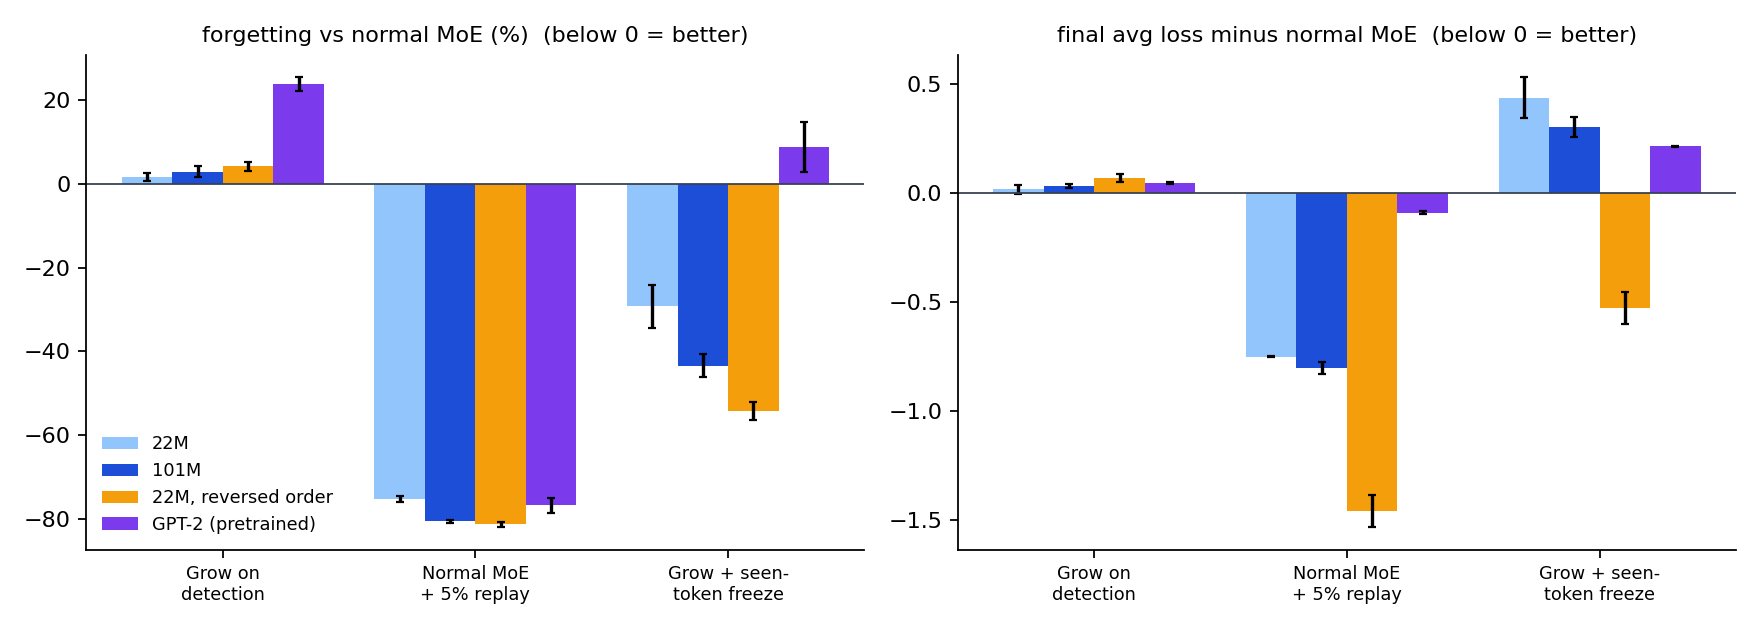
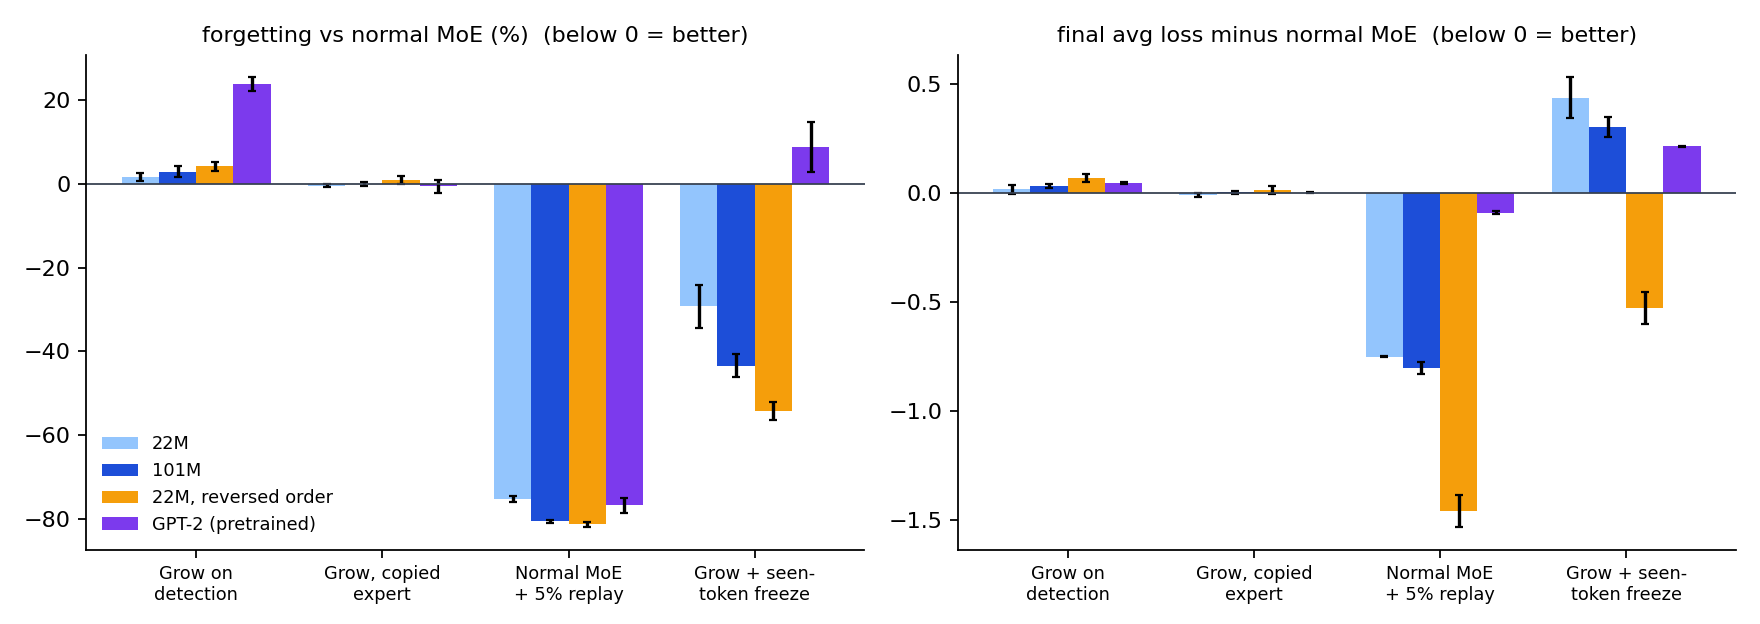
docs: copy-init, drop-threshold and GPT-2 router-leak findings 21-24; fig 11 copy arm

diff --git a/experiments/analyze.py b/experiments/analyze.py
@@ -350,7 +350,8 @@ SCALE_SIZES = [("toy", "22M params", "#93c5fd"), ("big", "101M params", "#1d4ed8
 ROBUST_SETTINGS = [("toy", "22M", "#93c5fd"), ("big", "101M", "#1d4ed8"),
                    ("ord", "22M, reversed order", "#f59e0b"),
                    ("gpt2", "GPT-2 (pretrained)", "#7c3aed")]
-ROBUST_ARMS = [("D", "Grow on\ndetection"), ("A_r05", "Normal MoE\n+ 5% replay"),
+ROBUST_ARMS = [("D", "Grow on\ndetection"), ("D_copy", "Grow, copied\nexpert"),
+               ("A_r05", "Normal MoE\n+ 5% replay"),
                ("D_seen", "Grow + seen-\ntoken freeze")]
 
 
@@ -672,7 +673,7 @@ PAPER_FIGURES = [
     ("9_gradual_drift.png", "drift", ["shift_q50", "drift_q50", "drift_q100"]),
     ("10_drift_detector.png", "drift", ["drift_q100", "dd_drift_q100", "dd_drift_q50"]),
     ("11_robustness.png", "robustness",
-     [f"{p}_{a}" for p, _, _ in ROBUST_SETTINGS for a in ("A", "D", "A_r05", "D_seen")]),
+     [f"{p}_{a}" for p, _, _ in ROBUST_SETTINGS for a in ("A", "D", "D_copy", "A_r05", "D_seen")]),
 ]
 
 

diff --git a/README.md b/README.md
@@ -5,7 +5,7 @@
 This repository contains two things:
 
 1. **The engine** — a Mixture-of-Experts layer whose expert count can grow *while the network is training*, plus a foundry that turns PyTorch source code (including code written by a local LLM) into validated, live experts. Originally built for the AMD Developer Hackathon ACT II.
-2. **A study of whether that is useful** — about 260 training runs of continual pretraining on an AMD Radeon Pro W7900D, comparing growth against plain training, freezing strategies, and data replay, with 3–6 seeds per setting.
+2. **A study of whether that is useful** — about 290 training runs of continual pretraining on an AMD Radeon Pro W7900D, comparing growth against plain training, freezing strategies, and data replay, with 3–6 seeds per setting.
 
 The short answer: **detecting the shift works; growing experts in response does not reduce forgetting, at any replay budget, model size, domain order or learning-rate schedule we tested, nor when starting from pretrained GPT-2 — while replaying even 1% of old data does.** The study also measures *why* growth fails and answers whether LLM-written experts beat randomly initialised ones (they don't).
 
@@ -19,10 +19,10 @@ The setup: a small MoE language model is trained on three text domains in sequen
 
 | Finding | Evidence |
 |---|---|
-| **The model detects domain changes by itself.** A rolling z-score on its own training loss caught **162 of 162** boundaries across 81 runs (including pretrained GPT-2), always 2 steps after the change, with **zero false alarms**. On its own it cannot see a change that makes the loss *drop*: with the domain order reversed, the switch from math to code (which a math-trained model already finds easier) was missed in all 6 runs. The same test run on the falling side catches it in 2 of 3 runs, with zero false alarms (it never fired in no-shift or normal-order runs, which stay bit-identical). | [fig 3](results/figures/3_detection.png) |
+| **The model detects domain changes by itself.** A rolling z-score on its own training loss caught **162 of 162** boundaries across 81 runs (including pretrained GPT-2), always 2 steps after the change, with **zero false alarms**. On its own it cannot see a change that makes the loss *drop*: with the domain order reversed, the switch from math to code (which a math-trained model already finds easier) was missed in all 6 runs. The same test run on the falling side catches it in 5 of 6 runs, with zero false alarms (it never fired in no-shift or normal-order runs, which stay bit-identical); replayed offline, a slightly lower threshold for drops catches all of them. | [fig 3](results/figures/3_detection.png) |
 | **It catches abrupt shifts down to about 10% of the data — but not gradual drift.** Switching 10%+ of the data to a new domain is always detected (within 2–10 steps); 5% is caught 1 time in 3; no change, never. Drifting *slowly* to 100% code is never detected by the spike detector, even though it raises the loss as much as a 25% switch that always is. | [fig 8](results/figures/8_detection_sensitivity.png), [fig 9](results/figures/9_gradual_drift.png) |
 | **A second, long-horizon detector fixes most of the drift gap at no cost.** Comparing the smoothed loss against its lowest point since the last growth catches drift to 100% code in 3/3 runs, drift to 50% in 3/3 with a 5% margin, and even drift to 25% in 2/3 with a 2% margin — with zero false alarms at every margin tested — and abrupt and normal runs are bit-identical with or without it. | [fig 10](results/figures/10_drift_detector.png) |
-| **Growing experts on detection does not reduce forgetting.** Normal MoE: 1.51 forgetting. Growing at every detected change: 1.53. Growing at the *true* boundaries (oracle): 1.54. Starting each new expert as a copy of an existing one instead of random weights removes growth's extra forgetting (1.50 at 22M; on GPT-2 0.182 vs 0.227) — but that only brings it level with not growing at all. | [fig 1](results/figures/1_tradeoff.png) |
+| **Growing experts on detection does not reduce forgetting.** Normal MoE: 1.51 forgetting. Growing at every detected change: 1.53. Growing at the *true* boundaries (oracle): 1.54. Starting each new expert as a copy of an existing one instead of random weights removes growth's extra forgetting at 22M, 101M, in reversed order, with replay and on GPT-2 — but that only brings it level with not growing at all. On GPT-2 with freezing, the same copied expert backfires: the router sends 67% of old text to it and forgetting nearly doubles. | [fig 1](results/figures/1_tradeoff.png) |
 | **Why: two shared paths leak.** With every old weight frozen, the router still sends old-domain tokens to the new experts (32% → 68% as more experts are added; correlation with forgetting r = 0.80), and the token embeddings — shared by every domain, and tied to the output layer — drift. | [fig 4](results/figures/4_router_leak.png) |
 | **Best method that stores no old data: freeze the embeddings of already-seen tokens.** −30% forgetting at 22M params, −44% at 101M — but always at a cost in learning the new domains. | [fig 6](results/figures/6_scale.png) |
 | **Replay wins at every budget.** Mixing 1% old data into each batch halves forgetting; 5% removes 75–81%. Adding expert growth on top changes nothing, and adding freezing makes the final loss worse at every budget. | [fig 5](results/figures/5_replay_budget.png) |
@@ -32,7 +32,7 @@ The setup: a small MoE language model is trained on three text domains in sequen
 
 ![Forgetting and final loss vs replay budget](results/figures/5_replay_budget.png)
 
-Every number, table, and caveat is in **[`results/NOTES.md`](results/NOTES.md)** (23 findings), with all eleven figures in [`results/figures/`](results/figures/).
+Every number, table, and caveat is in **[`results/NOTES.md`](results/NOTES.md)** (24 findings), with all eleven figures in [`results/figures/`](results/figures/).
 
 ## Setup
 
@@ -92,7 +92,9 @@ bash experiments/run_queue.sh experiments/queues/replay_budget.txt
 | `two_sided_detection.txt` | 21 (detecting shifts that lower the loss) |
 | `grown_expert_init.txt` | 22 (how new experts are initialised) |
 | `gpt2_embeddings.txt` | 23 (which embeddings to freeze on GPT-2) |
-| `gpt2_copy_init.txt` | copied experts + freezing on GPT-2 (in progress) |
+| `drop_detection_steps.txt` | 21 (more seeds; per-step logging of the missed drop) |
+| `copy_init_generality.txt` | 22 (copied experts at 101M, reversed order, with replay and seen-token freezing) |
+| `gpt2_copy_init.txt` | 24 (copied experts + freezing on GPT-2) |
 
 **4. Tables and figures:**
 
@@ -161,10 +163,10 @@ docker run --rm --device=/dev/kfd --device=/dev/dri --group-add video --group-ad
 
 - **Small models, short training.** 22M and 101M parameters trained from scratch on 30M tokens, plus GPT-2 small (124M, pretrained) on 9M tokens. The conclusions held across all of these, but nothing at billions of parameters or tokens, where the trade-offs could differ. Seen-token freezing in particular changed with the setting: relatively better at 101M, useless on pretrained GPT-2.
 - **Detection has limits.** Abrupt changes are caught down to about a 10% shift. The spike detector alone misses gradual drift entirely; the added drift detector catches drift down to 25% code at a 2% margin, but not reliably (2/3), and margins below 2% (where false alarms would presumably start) were not tested.
-- **One kind of detector.** A loss z-score with a fixed threshold (z > 4 for 3 steps). Run on the rising side alone it misses a shift to easier data (finding 18); the added falling-side copy caught that shift in only 2 of 3 runs, because a step down is smaller than a step up (finding 21). Other signals (routing entropy, expert load) were logged but not compared.
+- **One kind of detector.** A loss z-score with a fixed threshold (z > 4 for 3 steps). Run on the rising side alone it misses a shift to easier data (finding 18); the added falling-side copy caught that shift in 5 of 6 runs, because a step down is smaller than a step up; a lower drop threshold (z > 3) catches all of them in an offline replay, but was not tested in a training run (finding 21). Other signals (routing entropy, expert load) were logged but not compared.
 - **Three domains, one order each way.** Forward and reversed order were tested; other orders and longer domain sequences were not.
 - **Gemma's designs had little variety** (nearly all LayerNorm → 256→128 → 128→256), so "LLM-written vs random" was tested on a narrow range of designs.
-- **Grown experts start from a different initialisation** than the model's initial experts (PyTorch's default vs GPT-style std 0.02) in every run before finding 22. That init is what made growth slightly *worse* than not growing; copying an existing expert removes the penalty but gives no gain (finding 22). Copy init was tested with plain growth only, not with freezing or replay.
+- **Grown experts start from a different initialisation** than the model's initial experts (PyTorch's default vs GPT-style std 0.02) in every run before finding 22. That init is what made growth slightly *worse* than not growing; copying an existing expert removes the penalty but gives no gain (finding 22). Copy init is harmless without freezing but harmful with freezing on GPT-2 (finding 24).
 
 **Of the engine**
 

diff --git a/results/NOTES.md b/results/NOTES.md
@@ -57,7 +57,7 @@ Two details that apply to every growth run:
    exactly 2 steps late, with zero false triggers (fig 3). The 6 pretrained
    GPT-2 growth runs add 12/12 more (finding 20). The one exception is a shift
    that *lowers* the loss, which a spike detector cannot see (finding 18). A
-   second detector on the falling side catches it in 2 of 3 seeds, with no
+   second detector on the falling side catches it in 5 of 6 seeds, with no
    false alarms (finding 21). Without the rule, 1 of 3
    seeds fired on a noisy batch (z = 4.04) 8 steps early and its 300-step
    cooldown masked the real boundary.
@@ -329,18 +329,36 @@ Two details that apply to every growth run:
         trainable are pretrained and tied to the output layer. Finding 23
         tests this and rules it out.
 21. **A drop detector catches shifts that lower the loss, with no false
-    alarms** (`two_sided_detection.txt`).
+    alarms** (`two_sided_detection.txt`, `drop_detection_steps.txt`).
     - Method: a second copy of the same z-test runs on the *negated* loss
       (`detect_drops=true`). It is silent for the first 300 steps
       (`drop_warmup`), while the loss is still falling fast.
-    - Reversed order: math → code was caught in 2 of 3 seeds, at 3 and 4 steps
-      late (z = −8.5 and −5.7). Code → stories was caught in 3/3 as before. In
-      total that is 5/6 boundaries, up from 3/6.
-    - The third seed missed the drop even though its loss fell by as much as
-      in the other two. The step down is smaller than an upward switch: ~0.8
-      nats here, against ~4 for code → stories. It needs 3 steps in a row past
-      z = 4, so it is borderline. Only 20-step loss averages are logged, so the
-      exact per-step z for that seed cannot be recovered.
+    - Reversed order, 6 seeds: math → code was caught in 5, 2–5 steps late
+      (z between −5.1 and −8.5). Code → stories was caught in 6/6 as before.
+      In total that is 11/12 boundaries, up from 6/12.
+    - The step down is smaller than an upward switch: ~0.8 nats here, against
+      ~4 for code → stories, so the drop side runs closer to the threshold.
+    - Why seed 1 missed: it was re-run with per-step loss logging (bit-identical
+      to the original run). Its loss fell more gradually over the first code
+      steps, and its math loss just before was noisier. The z-scores of the
+      first code steps were 3.4, 3.2, 4.8, 3.8, 3.7, 4.0: never 3 in a row
+      above 4.
+    - Lower thresholds, replayed offline on the per-step losses. The replay at
+      z > 4 reproduces the real firings exactly. Drop side only, 3 steps in a
+      row; 4 reversed-order seeds, plus 5 controls with no loss-lowering shift
+      (3 no-shift, 2 normal-order):
+
+      | Drop threshold | math → code caught | False alarms in controls |
+      |---|---|---|
+      | z > 4 (used) | 3/4 | 0/5 |
+      | z > 3.5 | 4/4 | 0/5 |
+      | z > 3 | 4/4, all exactly 2 steps late | 0/5 |
+      | z > 2.5 | 4/4 | 3/5 (at step 381, just after the warm-up) |
+
+      A drop threshold of 3 would have caught every seed with no false alarm.
+      This is offline and on few runs, and a real run with that setting was
+      not trained. Requiring only 2 steps in a row at z > 3 already gave false
+      alarms in 2 of the 5 controls.
     - No false alarms. The normal-order runs (3 seeds) and the no-shift runs
       (stories → stories, 3 seeds) are **bit-identical** to the same runs
       without the drop detector: it never fired.
@@ -373,6 +391,19 @@ Two details that apply to every growth run:
       not the size of the random weights.
     - Even the best grown expert only matches not growing. Growth on its own
       still has no benefit here.
+    - The match holds in every other setting tried (`copy_init_generality.txt`,
+      fig 11). Forgetting / final avg loss, 3 seeds:
+
+      | Setting | Grow, copy init | Grow, default init | Normal MoE |
+      |---|---|---|---|
+      | 101M | 1.494 ± 0.024 / 4.113 ± 0.041 | 1.536 / 4.143 | 1.494 / 4.110 |
+      | Reversed order | 2.737 ± 0.109 / 5.252 ± 0.084 | 2.823 / 5.309 | 2.711 / 5.238 |
+      | 22M + 5% replay | 0.368 ± 0.004 / 3.582 ± 0.004 | 0.381 / 3.593 | 0.373 / 3.585 |
+      | GPT-2 + 5% replay | 0.047 ± 0.002 / 2.222 ± 0.001 | — | 0.042 / 2.217 |
+
+    - With seen-token freezing at 22M, copy init also helps: 0.947 ± 0.085 /
+      4.656 ± 0.088, against 1.066 / 4.774 with default init. That is still far
+      behind replay. On GPT-2 the same combination fails badly (finding 24).
 23. **On GPT-2, freezing hurts more the more is frozen. Trainable embeddings
     are not what causes forgetting** (`gpt2_embeddings.txt`). All three runs
     grow on detection and freeze every old MLP, attention and router weight.
@@ -398,6 +429,33 @@ Two details that apply to every growth run:
       and still damages stories through the experts' shared output. The
       freezing-based methods therefore only paid off when training from
       scratch.
+24. **On GPT-2, a copied expert plus freezing nearly doubles forgetting,
+    through the router** (`gpt2_copy_init.txt`). Same freezing runs as
+    finding 23, but each new expert starts as a copy of the busiest one.
+    3 seeds:
+
+    | Run | Avg forgetting | Stories forgetting | Final avg | Stories routed to new experts |
+    |---|---|---|---|---|
+    | freeze all, default init | 0.250 ± 0.022 | 0.467 | 2.587 | 17% |
+    | freeze all, copy init | 0.440 ± 0.013 | 0.687 | 2.604 | **67%** |
+    | seen-token freeze, default init | 0.200 ± 0.021 | 0.363 | 2.522 | 15% |
+    | seen-token freeze, copy init | 0.436 ± 0.013 | 0.665 | 2.592 | **67%** |
+
+    - A copied expert computes the same function as a pretrained one, so the
+      router is as happy to send old tokens to it. Two thirds of stories
+      tokens end up in the new experts.
+    - The new experts are the only MLPs being trained on code and math. So
+      stories is processed by weights that are being overwritten, which is
+      the router leak of finding 5 at its most extreme.
+    - A random new expert is mostly ignored by a router trained on pretrained
+      experts, which is what limited its leak to ~16%.
+    - At 22M the same copy init did *not* raise the leak (51% vs 48%, finding
+      22). There the router had no strong pretrained preference to begin
+      with.
+    - So under freezing, how a new expert starts decides how much old data it
+      captures. Without freezing, copy init is harmless (finding 22): the
+      original experts are trained too, so nothing is protected or lost by
+      routing to the copy.
 
 ## Figures (`results/figures/`)
 
@@ -420,15 +478,14 @@ Two details that apply to every growth run:
    drift, with detector firings marked.
 10. `10_drift_detector.png` — the same drift runs with the long-horizon drift
     detector added, against the spike detector alone.
-11. `11_robustness.png` — growth, 5% replay and seen-token freezing compared
+11. `11_robustness.png` — growth (default and copied new experts), 5% replay
+    and seen-token freezing compared
     with the normal MoE in four settings (22M, 101M, reversed order,
     pretrained GPT-2). Forgetting is shown as a % change and final loss as a
     difference, paired by seed.
 
 ## Open / in progress
 
-- Running: copy-initialised growth combined with freezing on GPT-2
-  (`gpt2_copy_init.txt`). It tests whether copied experts rescue finding 23.
-- Not started: expert pruning; per-step loss logging around boundaries
-  (needed to explain the missed drop in finding 21).
+- Not started: expert pruning; a trained run with the drop threshold at
+  z = 3 (finding 21 tests it only offline).
 - Remaining work is the write-up.
